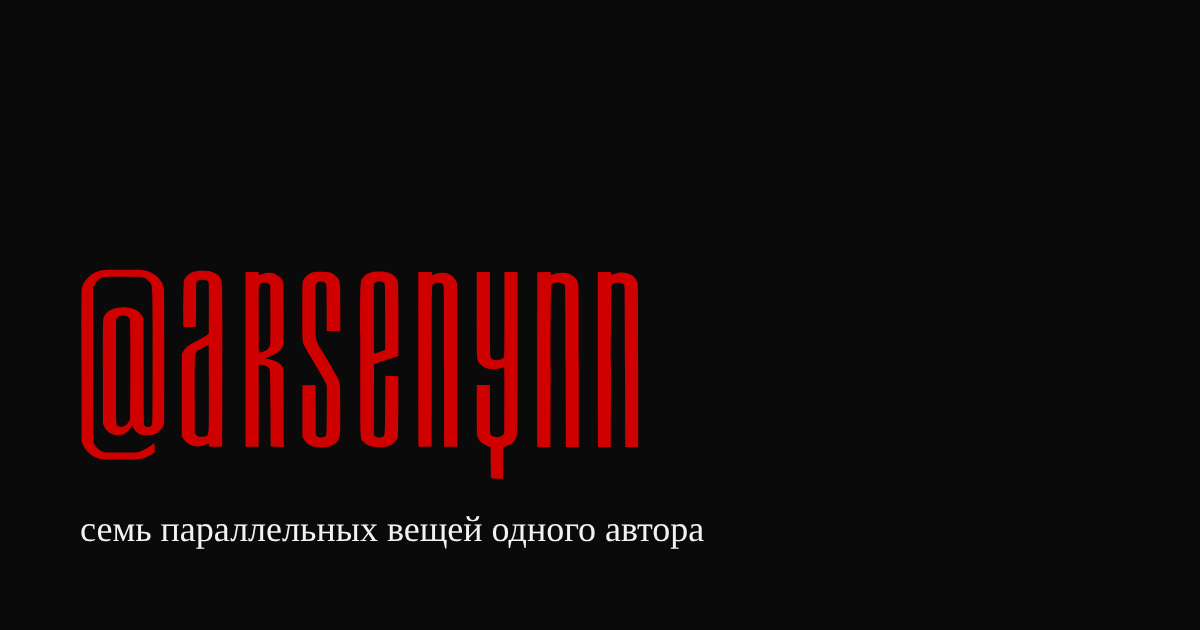
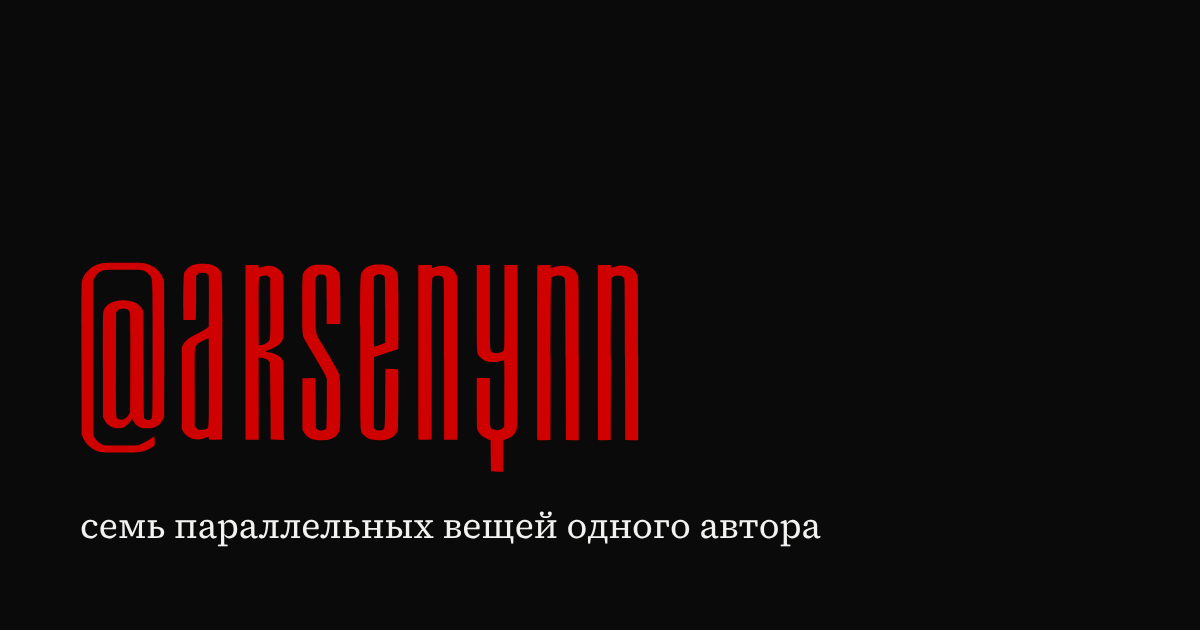
feat: phase 2 typography, Source Serif 4 and Manrope
Replace Playfair Display and the system stack with Source Serif 4 and
Manrope, apply the advisory type scale and render the OG image with the
site fonts. Colors and layout stay unchanged.

Claude-Session: https://claude.ai/code/session_01JHkr13phc59Zc6LMjoher3

diff --git a/src/styles/tokens.css b/src/styles/tokens.css
@@ -8,12 +8,15 @@
   --color-line-strong: #4a4a46;
   --color-press: #161615;
 
-  --font-ui: -apple-system, BlinkMacSystemFont, 'Segoe UI', Roboto, 'Helvetica Neue', Arial, sans-serif;
-  --font-display: 'Playfair Display Variable', Georgia, 'Times New Roman', serif;
+  /* Advisory phase 2: Source Serif 4 для заголовков и литературного текста, Manrope для интерфейса. */
+  --font-ui: 'Manrope Variable', -apple-system, BlinkMacSystemFont, 'Segoe UI', Roboto, Arial, sans-serif;
+  --font-display: 'Source Serif 4 Variable', Georgia, 'Times New Roman', serif;
 
-  --text-body: 1.0625rem;   /* 17px */
+  --text-body: 1.125rem;    /* 18px, advisory */
   --text-meta: 0.9375rem;   /* 15px */
-  --text-title: clamp(1.625rem, 0.9rem + 3.6vw, 2.75rem);
+  --text-lead: 1.375rem;    /* 22px */
+  --text-title: clamp(2rem, 1.2rem + 3.5vw, 3.25rem);
+  --leading-body: 1.58;
   --text-hero: clamp(3rem, 1.8rem + 6vw, 5.5rem);
 
   --space-1: 0.5rem;
@@ -35,7 +38,8 @@
 
 @media (min-width: 48rem) {
   :root {
-    --text-body: 1.125rem;   /* 18px */
+    --text-body: 1.1875rem;  /* 19px */
+    --text-lead: 1.625rem;   /* 26px */
     --gutter: 2.5rem;
   }
 }

diff --git a/src/styles/global.css b/src/styles/global.css
@@ -16,7 +16,7 @@ body {
   color: var(--color-text);
   font-family: var(--font-ui);
   font-size: var(--text-body);
-  line-height: 1.5;
+  line-height: var(--leading-body);
   -webkit-font-smoothing: antialiased;
   overflow-wrap: break-word;
 }

diff --git a/docs/implementation_plan.md b/docs/implementation_plan.md
@@ -1,5 +1,5 @@
 # Implementation Plan
-LastUpdated: 2026-11-01 15:45 MSK
+LastUpdated: 2026-11-01 16:00 MSK
 
 ## Todoist Sync
 - Sync: manual
@@ -29,7 +29,7 @@ LastUpdated: 2026-11-01 15:45 MSK
 - PushPolicy: auto-safe
 
 ## Status
-- Stage: Phase 1 of The Moving Index (advisory), сайт на https://arsenynn.com
+- Stage: Phase 2 of The Moving Index (advisory), сайт на https://arsenynn.com
 - Направление задано `docs/Advisory/deep_research_and_implementation_direction.md`: оставить Astro и статику, развивать фазами, каждая фаза отдельным деплоем с точкой отката.
 - Phase 1: hero в одну строку, тексты по advisory, знаки в строке номера, текстовые ссылки вместо «пилюль», трёхколоночный desktop.
 
@@ -37,6 +37,7 @@ LastUpdated: 2026-11-01 15:45 MSK
 - Точки отката: ветки `rollback/phase-N` на GitHub, каждая указывает на прод до начала фазы N+1.
 - `rollback/phase-0`: прод до advisory (c67cab3).
 - `rollback/phase-1`: прод после Phase 1, до Phase 1.1 (8256bd0).
+- `rollback/phase-1-1`: прод после Phase 1.1, до Phase 2 (5086a8c).
 - Откат: PR из revert-коммита фазы в `main` или `git revert <merge-commit>`; GitHub Actions пересоберёт сайт за 1–2 минуты.
 
 ## Done
@@ -47,13 +48,13 @@ LastUpdated: 2026-11-01 15:45 MSK
 - [x] Phase 0: точка отката `rollback/phase-0`, advisory сохранён в `docs/Advisory/`, проверены все 10 внешних ссылок
 - [x] Phase 1: hero, тексты, место знаков, стиль ссылок, desktop-сетка
 - [x] Phase 1.1: ссылки строками на всю ширину 56 px по просьбе владельца (удобство на телефоне)
+- [x] Phase 2: Source Serif 4 + Manrope вместо Playfair и системного шрифта, шкала advisory (body 18/19 px, 1.58), OG на шрифтах сайта
 
 ## In Progress
 <!-- Нет задач в работе. -->
 
 ## Next
 <!-- Canonical planning checklist. Plain items DO NOT auto-create Todoist subtasks. Todoist child boundaries require explicit owner/canonical-plan approval under One Plan = One Subtask. -->
-- [ ] Phase 2: Source Serif 4 + Manrope вместо Playfair, цвета без изменений (отдельный деплой)
 - [ ] Phase 3: тёплая светлая тема по `prefers-color-scheme` и уточнённый красный (отдельный деплой)
 - [ ] Включить Enforce HTTPS в настройках Pages (владелец)
 - [ ] Playwright + axe тесты в репозитории

diff --git a/docs/decisions_log.md b/docs/decisions_log.md
@@ -1,9 +1,31 @@
 # Decisions Log
-LastUpdated: 2026-11-01 15:45 MSK
+LastUpdated: 2026-11-01 16:00 MSK
 
 Этот файл хранит историю проекта: важные решения, изменения подхода, причины архитектурных поворотов, rejected options, runtime findings и выводы, которые помогают понять, как проект развивался.
 
 Записи идут в обратном хронологическом порядке: новые сверху.
+
+---
+
+## 2026-11-01 — Phase 2: Source Serif 4 и Manrope
+
+**Type:** decision
+**Project:** arsenynn.com
+**Phase:** Advisory Phase 2
+**Status:** accepted
+**Related files:** `src/styles/tokens.css`, `src/layouts/Base.astro`, `scripts/render-images.mjs`
+
+### Context
+Advisory: Playfair Display стал привычным редакционным приёмом; Source Serif 4 — серьёзное текстовое семейство с кириллицей и variable-версией, Manrope — сдержанный современный гротеск с кириллицей. Менять шрифты отдельным деплоем, цвета не трогать.
+
+### Decision
+Source Serif 4 для заголовков и hero-строки, Manrope для интерфейса и текста. Шкала из advisory: body 18 px на телефоне и 19 px на desktop, line-height 1.58, lead 22/26 px, заголовок проекта 32–52 px. Подключена только ось wght: файлы с opsz весят в 2.5 раза больше. OG image рендерится шрифтами сайта.
+
+### Consequences
+Вес шрифтов около 126 KB при бюджете advisory 120 KB: кириллица и латиница обоих семейств. Можно снизить, если вынести латиницу Source Serif в подмножество.
+
+### Source
+Advisory, разделы Typography и Claude Code implementation brief.
 
 ---
 

diff --git a/docs/architecture.md b/docs/architecture.md
@@ -1,5 +1,5 @@
 # Architecture
-LastUpdated: 2026-11-01 15:45 MSK
+LastUpdated: 2026-11-01 16:00 MSK
 
 Статус: MVP реализован по этой архитектуре. Требования и их причины находятся в `docs/brief.md`, здесь только технические решения.
 
@@ -8,7 +8,7 @@ LastUpdated: 2026-11-01 15:45 MSK
 - Astro со статической сборкой: компоненты на сервере сборки, в браузер уходит только HTML, CSS и один маленький скрипт. Причины выбора в `docs/decisions_log.md`.
 - TypeScript для данных, чтобы опечатка в проекте или ссылке ломала сборку, а не страницу.
 - Обычный CSS с design tokens. Без Tailwind, без UI-библиотек, без icon packs: стрелка `↗` это текст.
-- Шрифты: Playfair Display Variable (OFL-1.1, кириллица) для названий проектов, hero-фразы и Work, self-hosted через `@fontsource-variable/playfair-display`; системный sans для остального. Обоснование в `docs/design_research.md`.
+- Шрифты (advisory phase 2): Source Serif 4 Variable для заголовков, hero-строки и литературного текста, Manrope Variable для интерфейса и текста. Оба OFL-1.1, с кириллицей, self-hosted через `@fontsource-variable/*`, только ось wght (без opsz): около 126 KB woff2 на первый просмотр с кириллицей и латиницей.
 - Node.js 20 или новее.
 
 ## Repository structure
